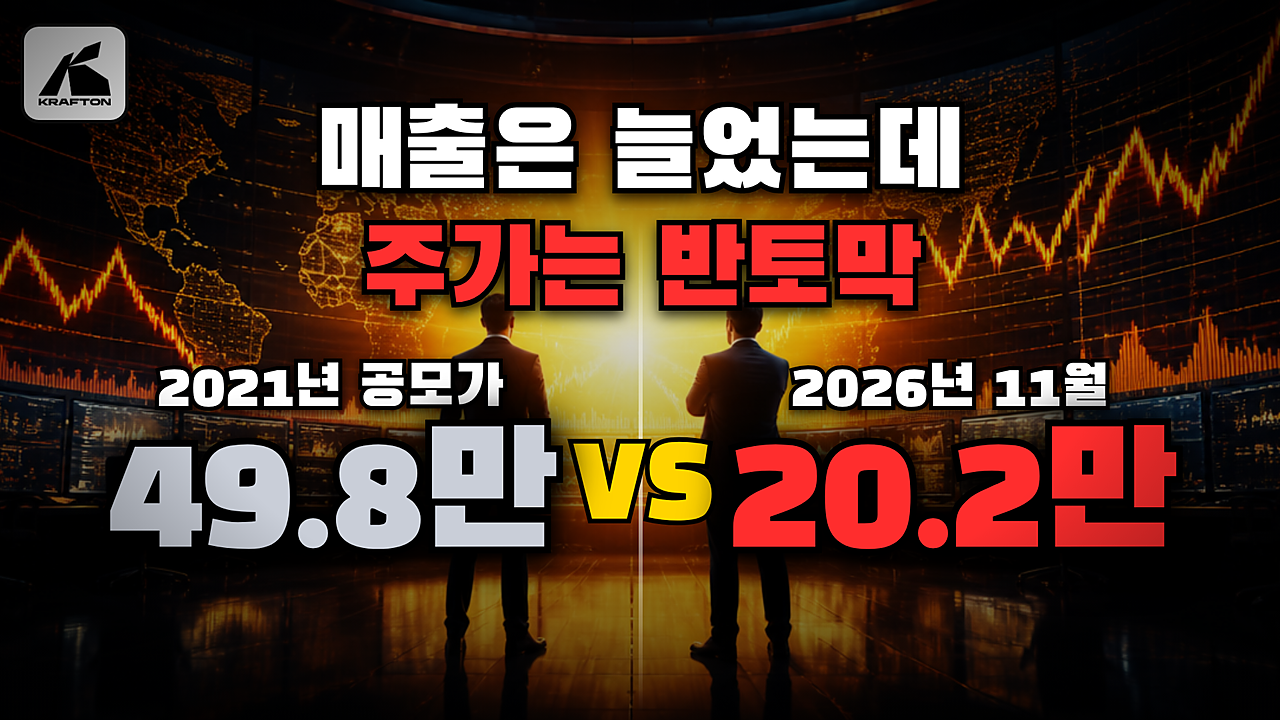
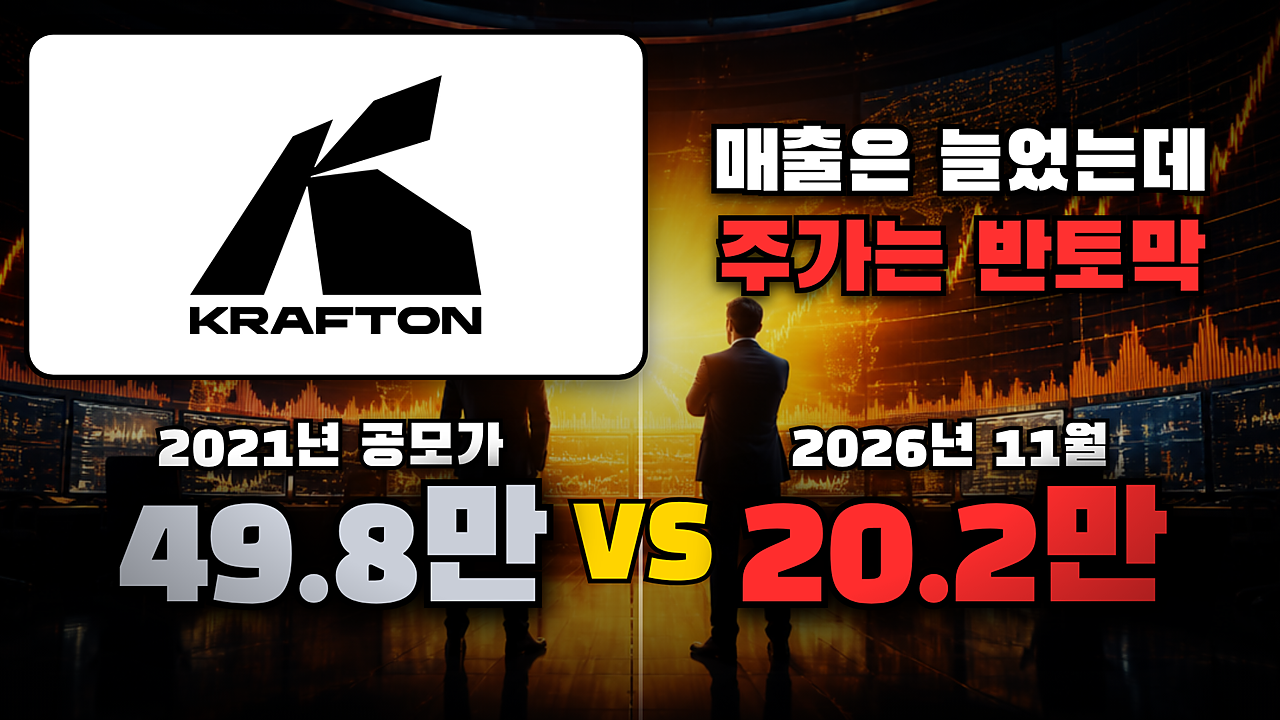
CEO 썸네일 B안(큰 CI 바이럴형) 확정 규칙 저장, 8편 thumb.png를 B안으로 교체
Claude-Session: https://claude.ai/code/session_01FimgvnFwUXoVfoVUHJw6eG

diff --git a/plans/CEO시리즈_v2_규칙.md b/plans/CEO시리즈_v2_규칙.md
@@ -63,3 +63,9 @@ v1(인포그래픽 낭독형, `plans/CEO시리즈_기획안.md`)에서 바뀌는
 - **영상 본편(퍼펫·화면)에는 로고를 넣지 않는다.** CI는 썸네일에만.
 - 5~7편은 `thumb_ci.png` 로 따로 만들어 두고, 이미 올라간 영상의 썸네일 교체는 현철님 승인 뒤 PC에서 한다(READY 다시 만들지 않음).
 
+
+## 7. 썸네일 확정 = B안 '큰 CI 바이럴형' (2026-11-21 현철님 확정, 8편부터 묶음 thumb.png)
+- 도구: `neural-studio/tools/thumb_viral/make.py` + 설정 `projects/thumb_viral/epN_big.json` (본보기 ep1~ep8_big.json).
+- 구성: 왼쪽 위 **공식 CI 박스 약 1/4 면적**(1920 기준 `ci.box=[44,52,920,510]`, 흰 바탕·공식 색 테두리; 흰색 반전 로고만 있으면 `ci.bg`=공식 색) + AI 시네마틱 배경(`assets/thumb_bg/*`, 가상 인물만) + 오른쪽 위 2줄 제목(`title_box=[990,900,"center"]`, `title_top=185`) + 아래 큰 숫자(`big.box=[60,600,1800,300]`, C형은 `c_top=620`).
+- 유형은 편마다 이야기에 맞춰 A(공포)·B(반전)·C(비교)·D(숫자) 중 고른다. 숫자는 영상·출처와 같은 값만.
+- 1~7편 유튜브 썸네일 교체는 현철님이 PC에서 직접(우리는 `epN/thumb_viral_big.png` 시안만). A안(3D) 큰 CI 시안은 더 만들지 않는다.

diff --git a/.claude/skills/faceless-video/references/내규칙.md b/.claude/skills/faceless-video/references/내규칙.md
@@ -65,3 +65,5 @@
 - [2026-11-21] CEO 시리즈 썸네일에 회사 공식 CI(로고)를 회사 이름 옆·위에 또렷하게 넣고, 회사 색은 CI 공식 색으로 맞춘다(추정값 금지). CI는 공식 출처 원본, 출처는 검수메모에. 영상 본편에는 로고 금지(썸네일에만). 8편부터는 처음부터 CI 썸네일. 상세 `plans/CEO시리즈_v2_규칙.md` 6번.
   왜: "5편 셀트리온, 6편 네이버, 7편 농심 썸네일에 각 회사 CI(공식 로고)를 넣어 다시 만들어줘 … 영상 본편의 퍼펫/화면에는 지금처럼 로고 넣지 말고, 썸네일에만 CI 적용 … 8편부터는 처음부터 CI 들어간 썸네일로 만들어."
 
+
+- 2026-11-21 (CEO 썸네일 확정): 큰 CI(약 1/4 면적) + AI 시네마틱 배경 + 큰 숫자의 바이럴 B안(`tools/thumb_viral/make.py`, `ci.box`)으로 확정. 8편부터 묶음 thumb.png는 전부 이 형식. 회사 색은 CI 파일에서 읽은 공식 색만. 상세: `plans/CEO시리즈_v2_규칙.md` 7절.
